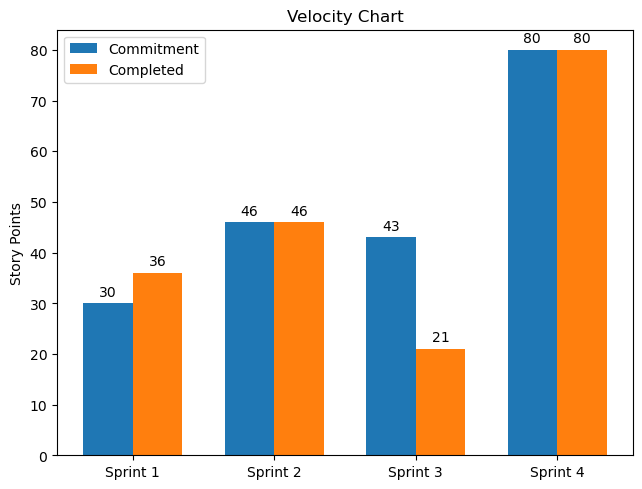
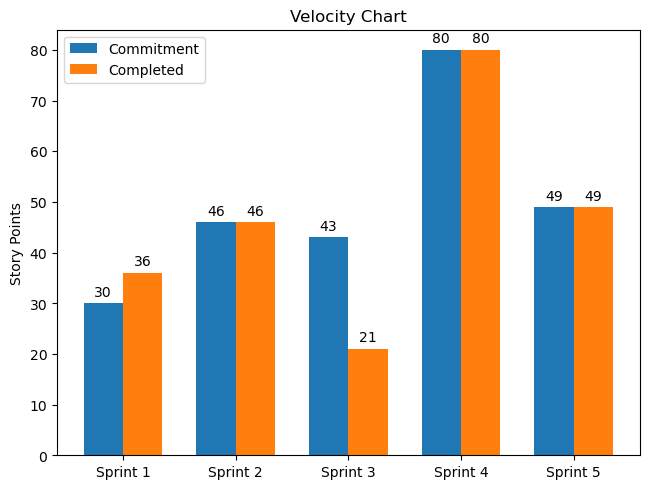
charts: Update for sprint 5

diff --git a/charts/main.py b/charts/main.py
@@ -40,7 +40,12 @@ def main():
     sprint4 = Sprint(sprint4_name, days=7, commitment=80, completed=sprint4_completion)
     create_burndown_chart(sprint4)
 
-    sprints = [sprint1, sprint2, sprint3, sprint4]
+    sprint5_name = "Sprint 5 (3/1/2021 - 3/7/2021)"
+    sprint5_completion = [0, 0, 0, 1, 0, 23, 25]
+    sprint5 = Sprint(sprint5_name, days=7, commitment=49, completed=sprint5_completion)
+    create_burndown_chart(sprint5)
+
+    sprints = [sprint1, sprint2, sprint3, sprint4, sprint5]
     create_velocity_chart(sprints)
 
 
